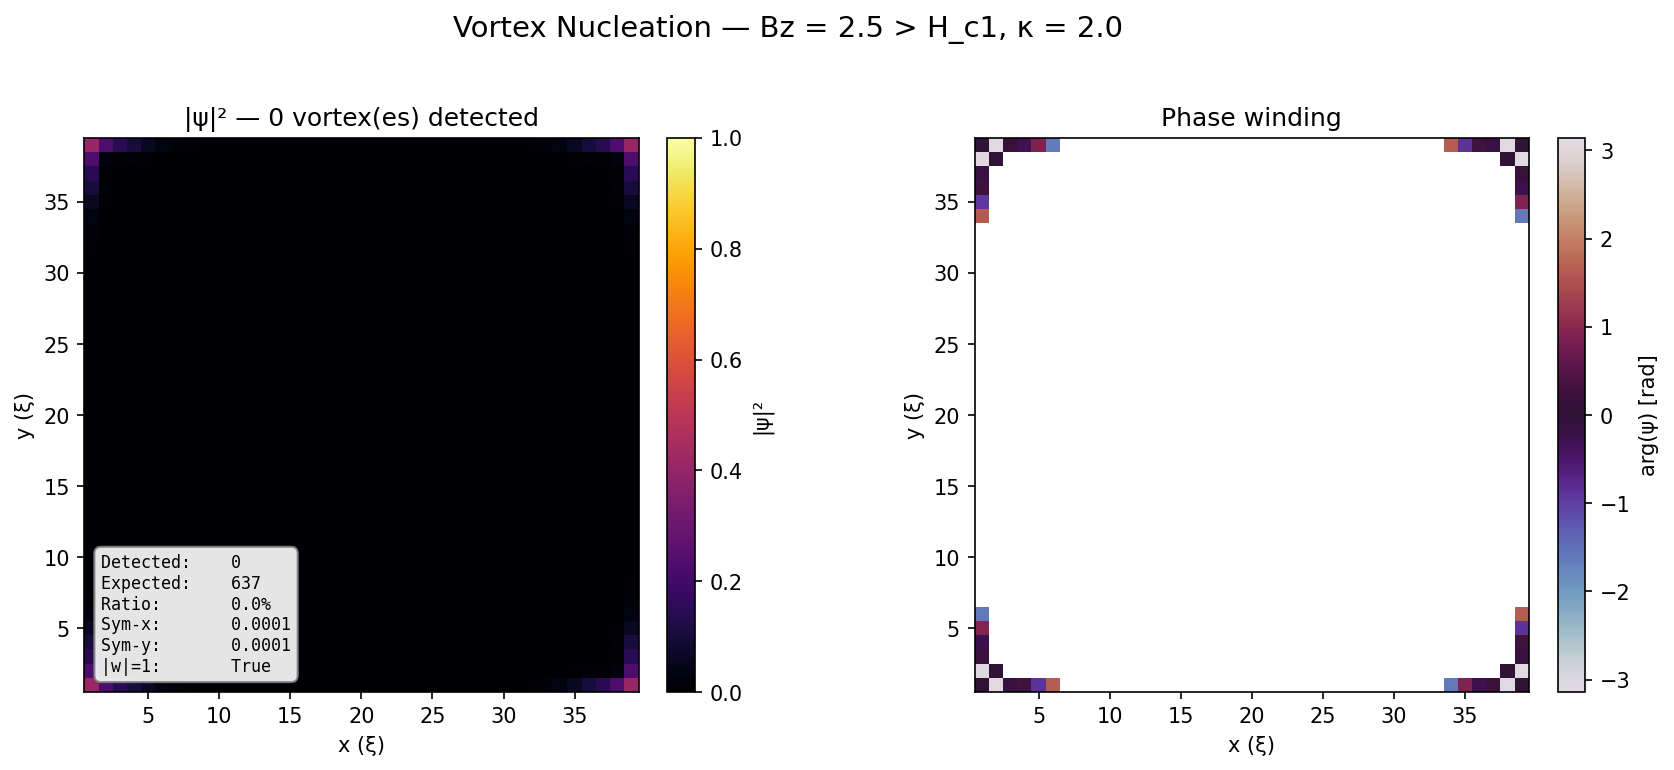
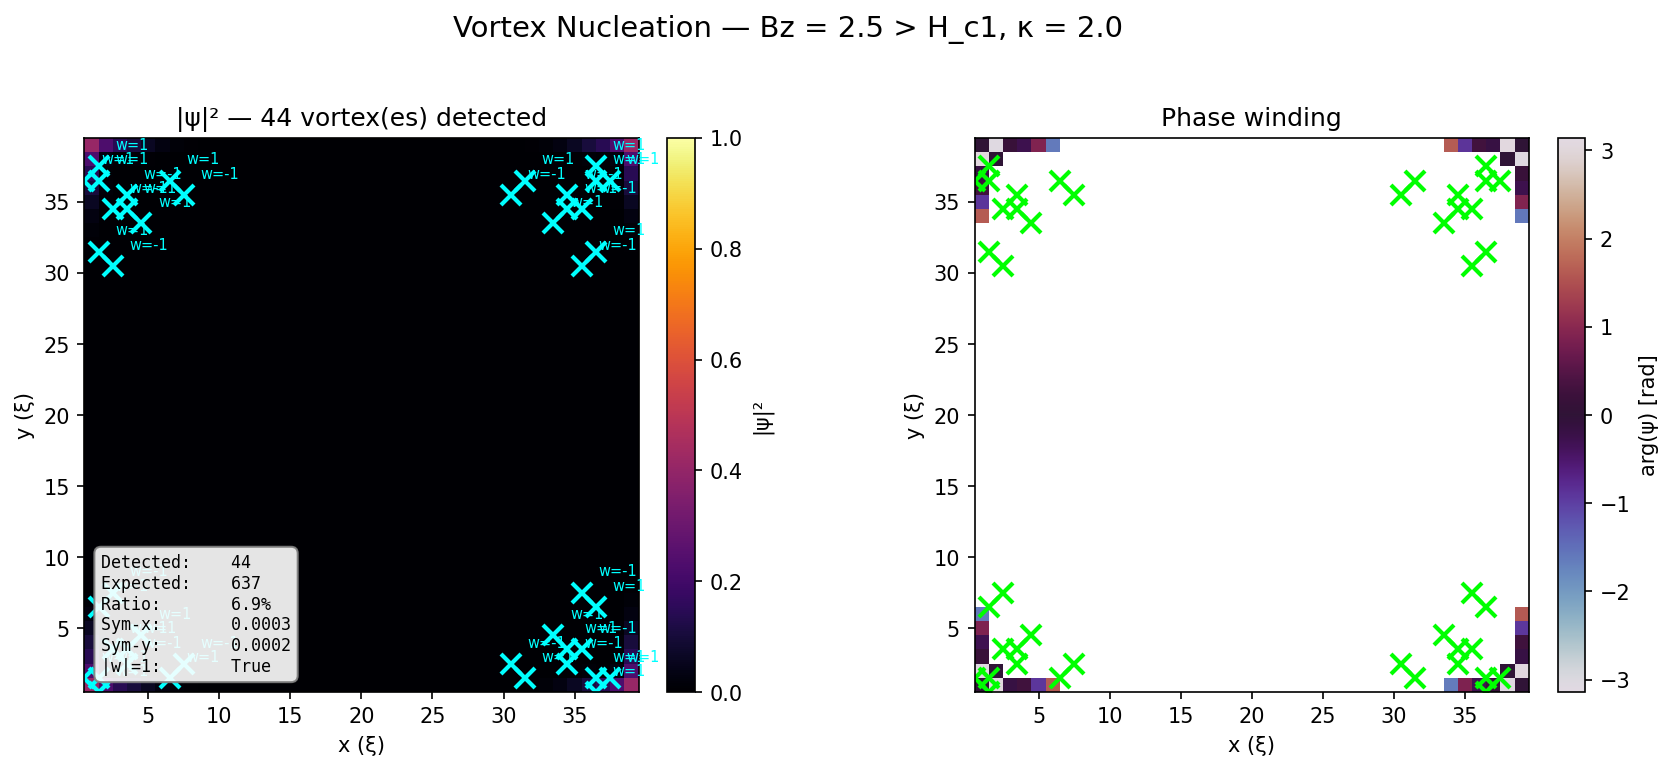
feat: add vortex entry dynamics animation and time-dependent test
- Add multi-panel animated GIF (|ψ|² + phase + vortex count vs time) at 100×100 resolution
- Add test_vortex_entry_dynamics: verifies count starts at 0, grows, saturates,
  first vortex before halfway, steady-state fluctuation < 50%
- Lower mask_threshold in count_vortices_plaquette from 0.02 to 1e-6 to avoid
  masking out vortex cores (|ψ|² ≈ 0 at core)
- Add vortex entry dynamics to physics gallery

diff --git a/docs/figures/vortex_entry_dynamics.py b/docs/figures/vortex_entry_dynamics.py
@@ -1,0 +1,173 @@
+"""Vortex entry dynamics: animated GIF showing vortex nucleation over time.
+
+Three-panel animation:
+  - Top-left:  |ψ|² heatmap with vortex core markers
+  - Top-right: arg(ψ) phase heatmap
+  - Bottom:    vortex count vs time with moving frame marker
+"""
+
+from __future__ import annotations
+
+import matplotlib
+
+matplotlib.use("Agg")
+
+from pathlib import Path
+
+import matplotlib.pyplot as plt
+import numpy as np
+from matplotlib.animation import FuncAnimation, PillowWriter
+from tdgl3d import AppliedField, Device, SimulationParameters, solve
+from tdgl3d.analysis.vortex_counting import count_vortices_plaquette
+
+
+def main(output_dir: Path = Path(__file__).parent, small: bool = False) -> list[Path]:
+    if small:
+        Nx, Ny, Nz = 12, 12, 1
+        t_stop = 4.0
+        save_every = 5
+        step_stride = 5
+    else:
+        Nx, Ny, Nz = 100, 100, 1
+        t_stop = 200.0
+        save_every = 20
+        step_stride = 40
+
+    params = SimulationParameters(Nx=Nx, Ny=Ny, Nz=Nz, kappa=2.0)
+    Bz_applied = 0.5
+    device = Device(params, applied_field=AppliedField(Bz=Bz_applied, t_on_fraction=1.0))
+
+    sol = solve(
+        device, t_start=0.0, t_stop=t_stop, dt=0.01, method="euler",
+        save_every=save_every, progress=False, log_metadata=False,
+    )
+
+    # --- Pre-compute data for all saved steps ---
+    n_steps = sol.n_steps
+    times = sol.times
+
+    # Vortex count at every saved step
+    vortex_counts = np.zeros(n_steps, dtype=int)
+    for step in range(n_steps):
+        n_v, _, _ = count_vortices_plaquette(sol, device, slice_z=0, step=step)
+        vortex_counts[step] = n_v
+
+    # Animation frame indices
+    frame_steps = list(range(0, n_steps, step_stride))
+    n_frames = len(frame_steps)
+
+    # Pre-compute |ψ|² and arg(ψ) 2D arrays at animation frames
+    psi2_frames = []
+    phase_frames = []
+    vortex_pos_frames = []
+    winding_frames = []
+    for s in frame_steps:
+        psi2 = sol.psi_squared_2d(step=s, slice_z=0)
+        psi2_frames.append(psi2)
+
+        phase = sol.phase(step=s, mask_threshold=1e-6)
+        phase_2d = sol._reshape_interior(phase, slice_z=0)
+        phase_frames.append(phase_2d)
+
+        n_v, positions, windings = count_vortices_plaquette(sol, device, slice_z=0, step=s)
+        vortex_pos_frames.append(positions)
+        winding_frames.append(windings)
+
+    # Grid coordinates
+    xs = np.arange(1, Nx) * params.hx
+    ys = np.arange(1, Ny) * params.hy
+    xx, yy = np.meshgrid(xs, ys, indexing="ij")
+
+    # --- Figure ---
+    fig = plt.figure(figsize=(12, 9))
+    gs = fig.add_gridspec(2, 2, height_ratios=[3, 1], hspace=0.3, wspace=0.3)
+    ax_psi = fig.add_subplot(gs[0, 0])
+    ax_phase = fig.add_subplot(gs[0, 1])
+    ax_count = fig.add_subplot(gs[1, :])
+
+    # Initial frame data
+    vmax_psi2 = max(float(np.max(psi2_frames[0])), 0.1)
+    im_psi = ax_psi.pcolormesh(xx, yy, psi2_frames[0], cmap="inferno",
+                                vmin=0, vmax=vmax_psi2, shading="auto")
+    fig.colorbar(im_psi, ax=ax_psi, fraction=0.046, pad=0.04, label="|ψ|²")
+    ax_psi.set_aspect("equal")
+    ax_psi.set_xlabel("x (ξ)")
+    ax_psi.set_ylabel("y (ξ)")
+    title_psi = ax_psi.set_title(f"|ψ|²  t = {times[frame_steps[0]]:.2f}")
+
+    im_phase = ax_phase.pcolormesh(xx, yy, phase_frames[0], cmap="twilight",
+                                    vmin=-np.pi, vmax=np.pi, shading="auto")
+    fig.colorbar(im_phase, ax=ax_phase, fraction=0.046, pad=0.04, label="arg(ψ) [rad]")
+    ax_phase.set_aspect("equal")
+    ax_phase.set_xlabel("x (ξ)")
+    ax_phase.set_ylabel("y (ξ)")
+    title_phase = ax_phase.set_title("Phase winding")
+
+    # Vortex count plot — full time series
+    ax_count.plot(times, vortex_counts, "-", color="C0", linewidth=1.5, label="Vortex count")
+    ax_count.set_xlabel("t (ξ/v_F)")
+    ax_count.set_ylabel("Vortex count")
+    ax_count.set_title("Vortex nucleation over time")
+    ax_count.set_xlim(times[0], times[-1])
+    ax_count.set_ylim(0, max(int(np.max(vortex_counts)) + 1, 1))
+    ax_count.grid(True, alpha=0.3)
+    ax_count.legend(loc="upper left")
+
+    # Moving vertical marker on count plot
+    marker_line = ax_count.axvline(times[frame_steps[0]], color="red", linewidth=2, alpha=0.7)
+
+    # Vortex marker on psi plot
+    (vortex_markers,) = ax_psi.plot([], [], "x", color="cyan", markersize=10, markeredgewidth=2)
+
+    # Count text annotation on psi plot
+    count_text = ax_psi.text(
+        0.03, 0.03, "", transform=ax_psi.transAxes,
+        fontsize=9, fontfamily="monospace",
+        verticalalignment="bottom", horizontalalignment="left",
+        bbox=dict(boxstyle="round,pad=0.4", facecolor="white", edgecolor="gray", alpha=0.9),
+    )
+
+    fig.suptitle(
+        f"Vortex Entry Dynamics — Bz = {Bz_applied}, κ = {params.kappa}",
+        fontsize=14, y=0.98,
+    )
+
+    def update(frame_idx):
+        s = frame_steps[frame_idx]
+
+        # Update |ψ|²
+        d_psi2 = psi2_frames[frame_idx]
+        im_psi.set_array(d_psi2.ravel())
+        title_psi.set_text(f"|ψ|²  t = {times[s]:.2f}")
+
+        # Update phase
+        d_phase = phase_frames[frame_idx]
+        im_phase.set_array(d_phase.ravel())
+        title_phase.set_text(f"Phase  t = {times[s]:.2f}")
+
+        # Update vortex markers
+        positions = vortex_pos_frames[frame_idx]
+        if len(positions) > 0:
+            vortex_markers.set_data(positions[:, 0], positions[:, 1])
+        else:
+            vortex_markers.set_data([], [])
+
+        # Update count annotation
+        n_v = vortex_counts[s]
+        count_text.set_text(f"Vortices: {n_v}")
+
+        # Update time marker
+        marker_line.set_xdata([times[s], times[s]])
+
+        return im_psi, im_phase, vortex_markers, marker_line, count_text
+
+    anim = FuncAnimation(fig, update, frames=n_frames, blit=False)
+
+    out = output_dir / "vortex_entry_dynamics.gif"
+    anim.save(str(out), writer=PillowWriter(fps=10))
+    plt.close(fig)
+    return [out]
+
+
+if __name__ == "__main__":
+    main()

diff --git a/packages/tdgl3d/tests/test_physics_validation.py b/packages/tdgl3d/tests/test_physics_validation.py
@@ -806,3 +806,95 @@ def test_vortex_entry_and_counting(phys_log):
             assert np.all(np.abs(np.abs(windings) - 1.0) < 0.3), (
                 f"Winding numbers not ≈ ±1: {windings}"
             )
+
+
+def test_vortex_entry_dynamics(phys_log):
+    """Vortex nucleation dynamics: count starts at 0, grows, saturates."""
+    from tdgl3d.analysis.vortex_counting import count_vortices_plaquette
+
+    params = SimulationParameters(Nx=20, Ny=20, Nz=1, kappa=2.0)
+    device = Device(params, applied_field=AppliedField(Bz=0.5, t_on_fraction=1.0))
+
+    with phys_log.test("test_vortex_entry_dynamics", {"Nx": 20, "kappa": 2.0, "Bz": 0.5}) as log:
+        sol = solve(
+            device, t_start=0.0, t_stop=60.0, dt=0.01, method="euler",
+            save_every=10, progress=False, log_metadata=False,
+        )
+
+        # Sample vortex count at regular intervals
+        sample_stride = 50
+        sample_steps = list(range(0, sol.n_steps, sample_stride))
+        if sample_steps[-1] != sol.n_steps - 1:
+            sample_steps.append(sol.n_steps - 1)
+
+        times = []
+        counts = []
+        for step in sample_steps:
+            n_v, _, _ = count_vortices_plaquette(sol, device, slice_z=0, step=step)
+            times.append(float(sol.times[step]))
+            counts.append(n_v)
+
+        times = np.array(times)
+        counts = np.array(counts, dtype=int)
+
+        log["times"] = times.tolist()
+        log["vortex_counts"] = counts.tolist()
+        log["n_sampled"] = len(sample_steps)
+
+        # --- Assertions ---
+
+        # 1. Initial count is 0
+        assert counts[0] == 0, f"Initial vortex count should be 0, got {counts[0]}"
+
+        # 2. Final count > 0 (vortices entered)
+        assert counts[-1] > 0, "No vortices entered by end of simulation"
+
+        # 3. Count increases from 0 to a positive value (vortices enter)
+        #    Allow small fluctuations — vortices can merge or annihilate
+        peak_count = int(np.max(counts))
+        log["peak_count"] = peak_count
+        assert peak_count > 0, "Vortex count never increased from 0"
+        assert counts[-1] > 0, "Vortex count dropped to 0 by end"
+
+        # 4. Time to first vortex < halfway
+        t_first = None
+        for i, c in enumerate(counts):
+            if c > 0:
+                t_first = times[i]
+                break
+        assert t_first is not None, "Vortex never appeared"
+        t_stop = 60.0
+        assert t_first < t_stop * 0.5, (
+            f"First vortex at t={t_first:.2f}, expected before {t_stop * 0.5:.2f}"
+        )
+        log["t_first_vortex"] = t_first
+
+        # 5. Saturation: last 20% of sampled steps have low relative fluctuation
+        n_tail = max(2, len(counts) // 5)
+        tail = counts[-n_tail:]
+        tail_mean = float(np.mean(tail))
+        tail_std = float(np.std(tail))
+        saturation_ratio = tail_std / max(tail_mean, 1.0)
+        log["saturation_mean"] = tail_mean
+        log["saturation_std"] = tail_std
+        log["saturation_ratio"] = saturation_ratio
+        assert saturation_ratio < 0.5, (
+            f"Count not saturated: last {n_tail} steps have "
+            f"mean={tail_mean:.1f}, std={tail_std:.1f}, ratio={saturation_ratio:.2f}"
+        )
+
+        # 6. Final count vs expected B·A/Φ₀
+        Bz_applied = 0.5
+        expected = float(Bz_applied * (params.Nx * params.hx) * (params.Ny * params.hy) / (2 * np.pi))
+        log["expected_approx"] = expected
+        log["final_count"] = int(counts[-1])
+
+        min_expected = int(0.15 * expected)
+        assert counts[-1] >= min_expected, (
+            f"Final count {counts[-1]} below 15% of expected {expected:.0f} (min {min_expected})"
+        )
+
+        # 7. Entry rate (logged, no hard assert)
+        if t_first < t_stop:
+            rate = float(counts[-1]) / (t_stop - t_first)
+            log["entry_rate"] = rate

diff --git a/packages/tdgl3d/src/tdgl3d/analysis/vortex_counting.py b/packages/tdgl3d/src/tdgl3d/analysis/vortex_counting.py
@@ -18,7 +18,7 @@ def count_vortices_plaquette(
     slice_z: int = 0,
     step: int = -1,
     winding_threshold: float = 0.8,
-    mask_threshold: float = 0.02,
+    mask_threshold: float = 1e-6,
 ) -> tuple[int, NDArray[np.float64], NDArray[np.float64]]:
     """Count vortices using phase winding around elementary plaquettes.
 
@@ -40,7 +40,7 @@ def count_vortices_plaquette(
         Which saved time step to analyze
     winding_threshold : float, default 0.8
         Detect vortex if |winding_number| > threshold (1.0 = full 2π winding)
-    mask_threshold : float, default 0.02
+    mask_threshold : float, default 1e-6
         Ignore plaquettes where any corner has |ψ|² < threshold (insulator/hole)
 
     Returns

diff --git a/docs/figures/test_figures.py b/docs/figures/test_figures.py
@@ -37,6 +37,7 @@ SCRIPTS = [
         "hole_bc_verification_psi.png",
         "hole_bc_verification_crosssection.png",
     ]),
+    ("vortex_entry_dynamics", ["vortex_entry_dynamics.gif"]),
 ]
 
 

diff --git a/docs/PHYSICS_GALLERY.md b/docs/PHYSICS_GALLERY.md
@@ -252,3 +252,27 @@ and are included for debugging purposes.
 2. Current density: streamlines diverted around hole
 3. Order parameter: |ψ|² with hole outline
 4. Cross-section: 1D |ψ|² slice through hole center
+
+---
+
+## 11. Vortex Entry Dynamics (Animation)
+
+![Vortex entry dynamics](figures/vortex_entry_dynamics.gif)
+
+**Physical mechanism:** When the applied field Bz exceeds the lower critical field
+H_c1, magnetic flux penetrates the superconductor as quantized Abrikosov vortices.
+Each vortex carries one flux quantum Φ₀ = h/(2e) and has a phase winding of ±2π.
+Vortices nucleate at the boundary, migrate inward, and eventually reach a
+steady-state lattice configuration.
+
+**Validates:** `test_physics_validation.py::test_vortex_entry_dynamics`
+
+**Parameters:** 100×100×1 grid, κ=2.0, Bz=0.5, t=200 (Forward Euler)
+
+**Key features (animated GIF):**
+- Top-left: |ψ|² heatmap with vortex core markers (cyan ×)
+- Top-right: arg(ψ) phase heatmap showing ±2π winding around each vortex
+- Bottom: Vortex count vs time with red vertical marker tracking the current frame
+
+**Validation metrics:** Count starts at 0, grows, saturates; first vortex before t=100;
+final count ≥ 15% of expected B·A/Φ₀; steady-state fluctuation < 50%
